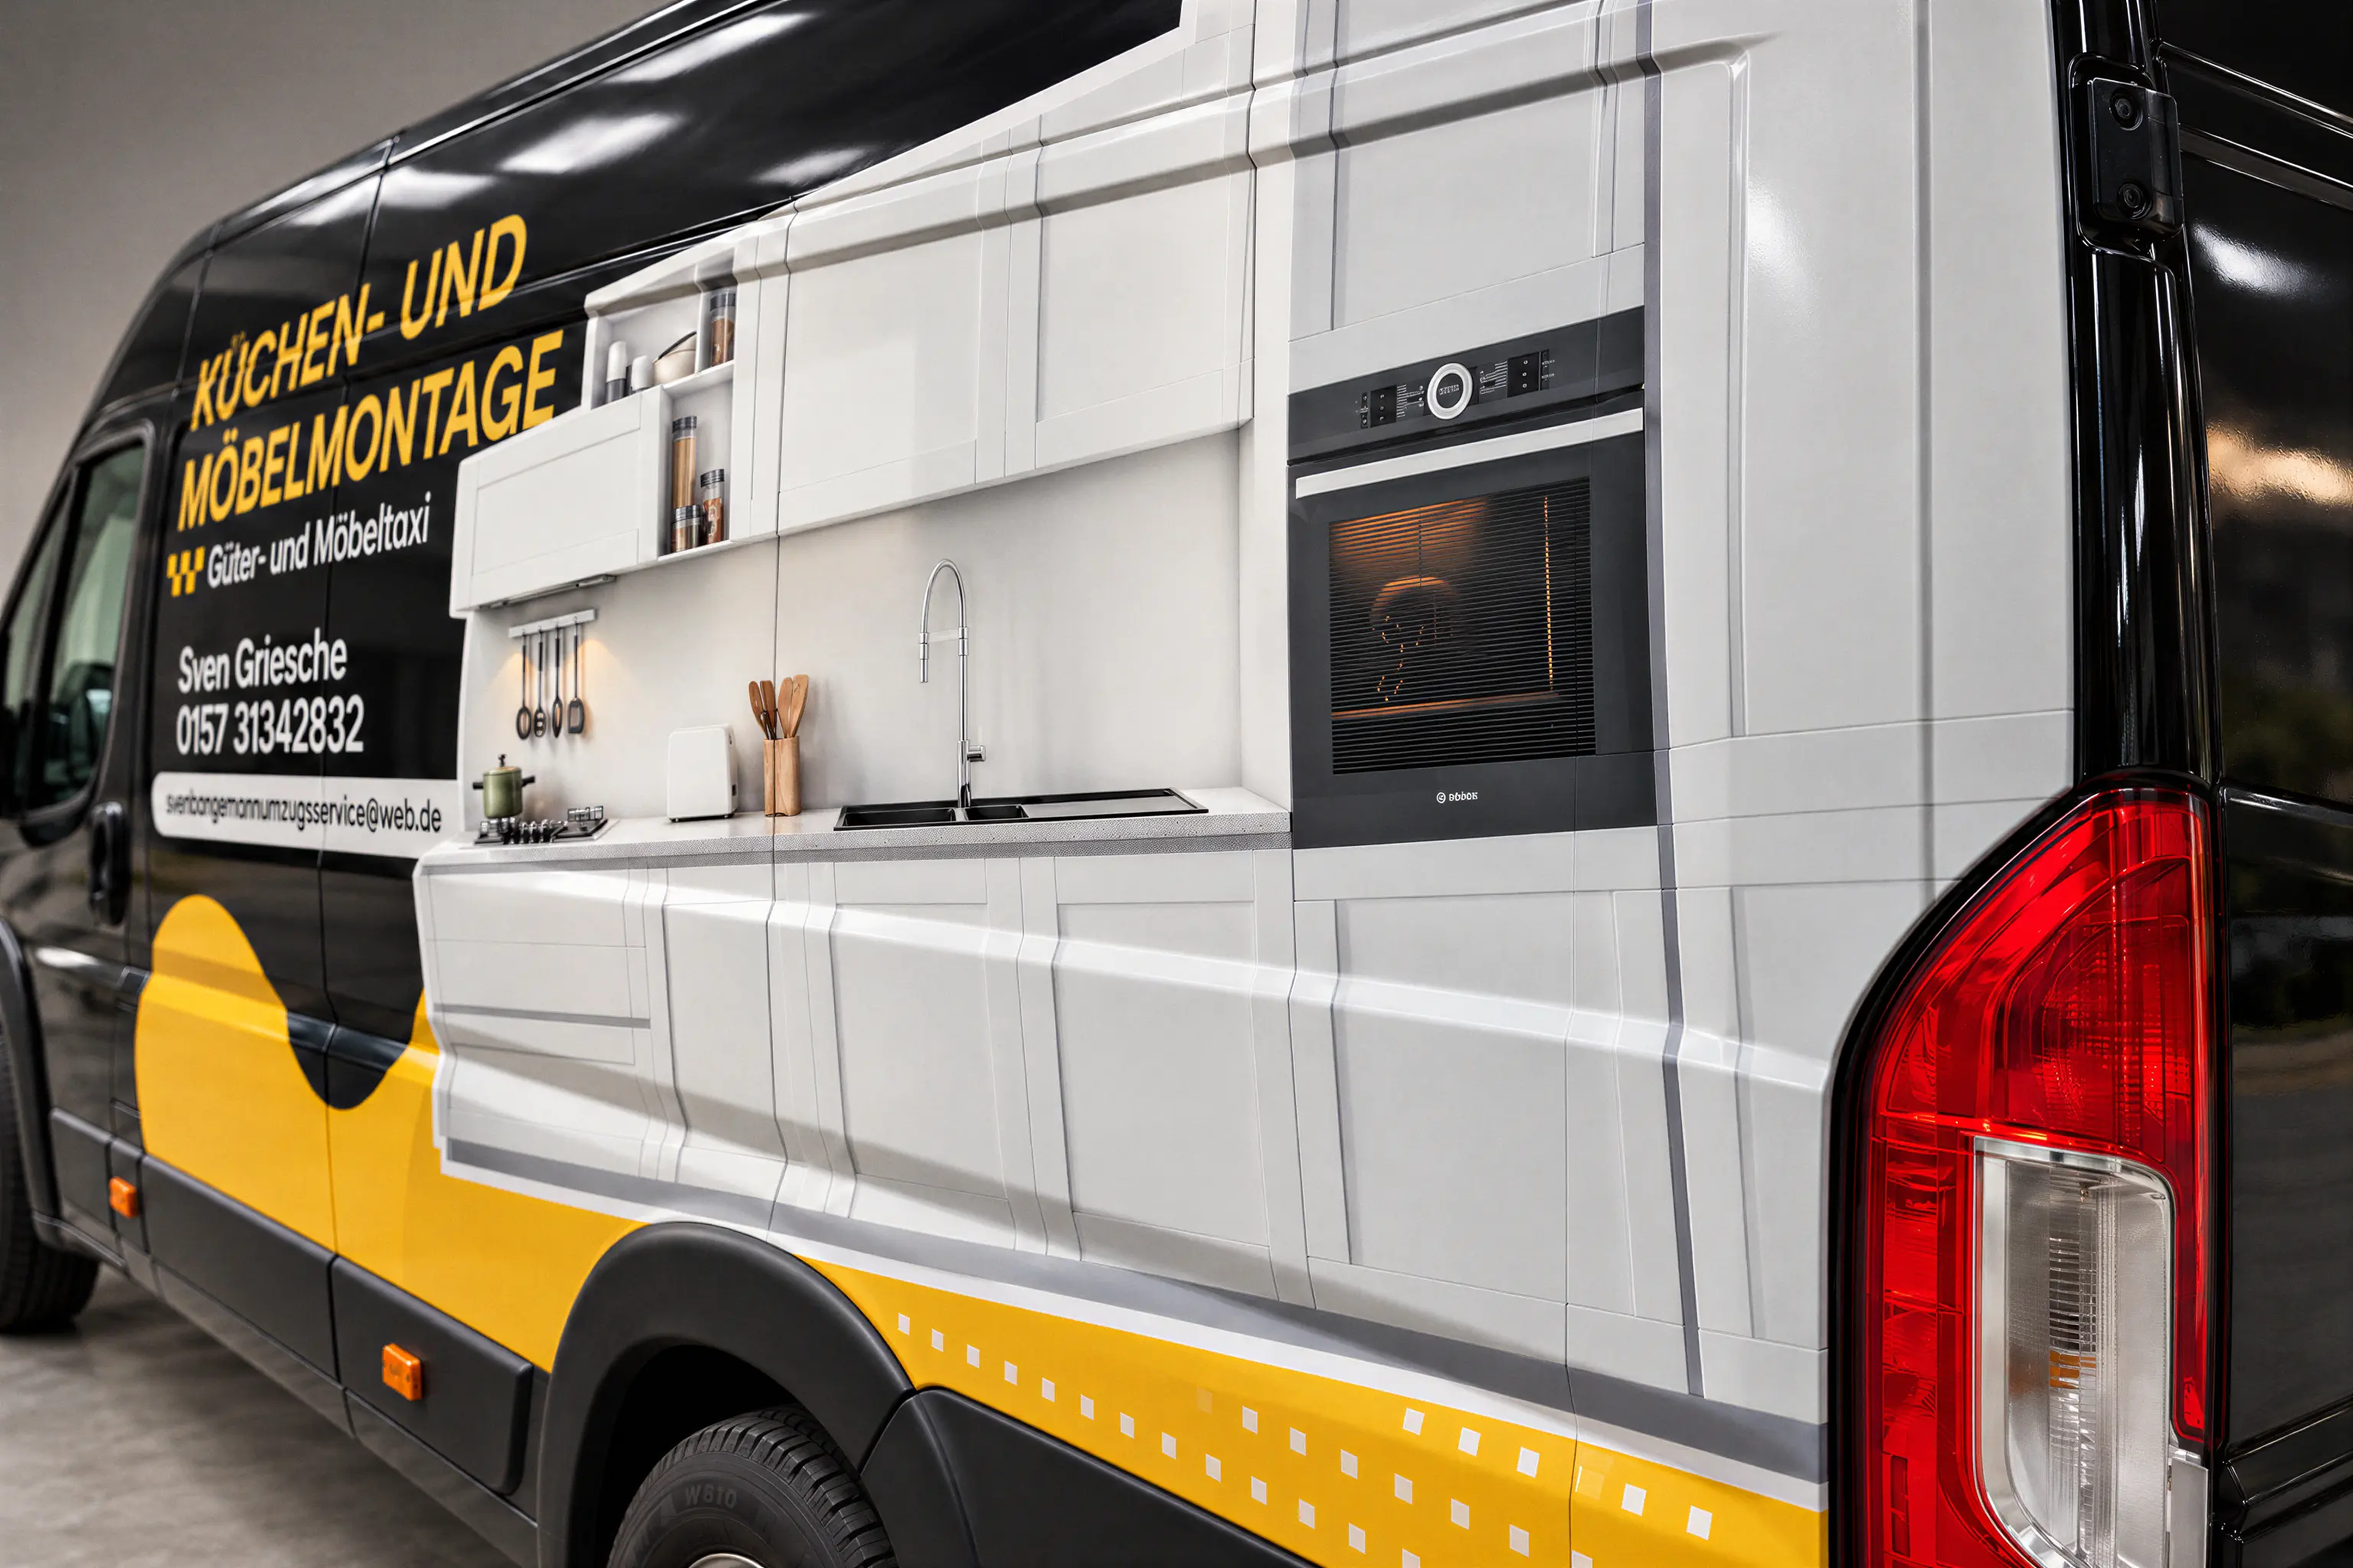
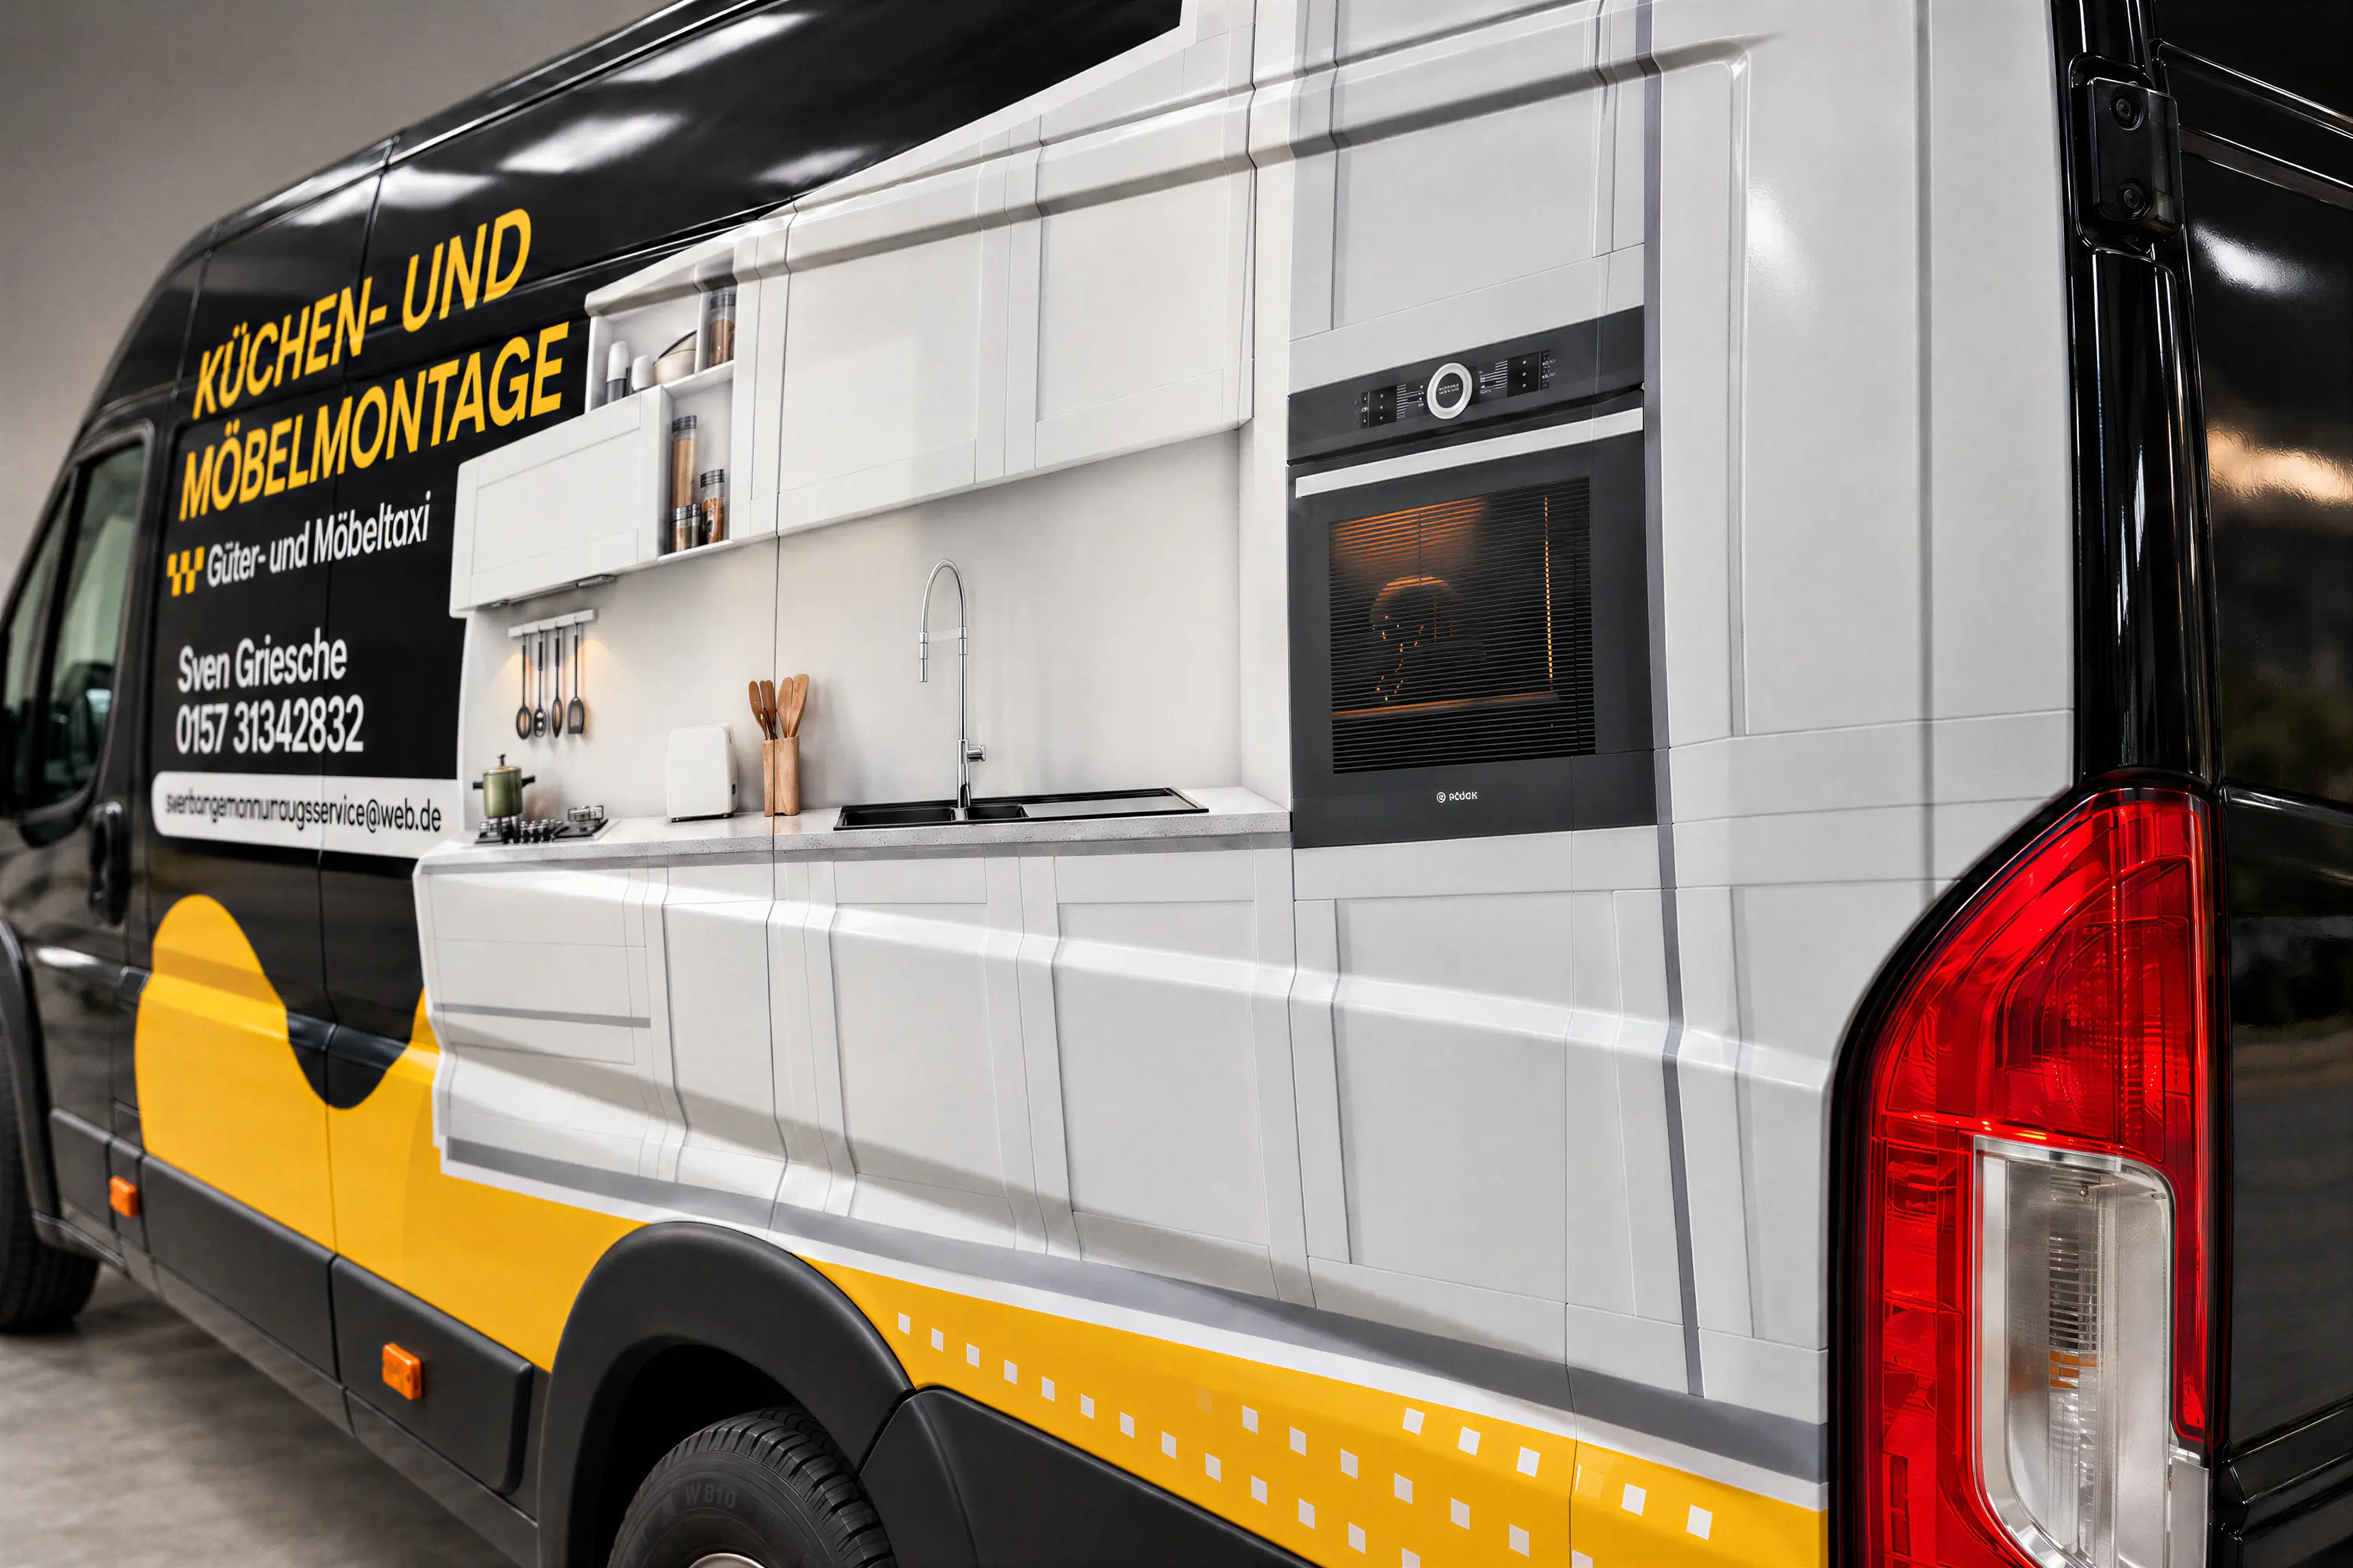
Update car wrapping photos 3 and 5

diff --git a/case-study.html b/case-study.html
@@ -170,7 +170,7 @@
   <!-- floating contact button -->
   <a class="contact-fab" href="mailto:savchenko.body@gmail.com" data-i18n="footer.fab">contact me</a>
 
-  <script src="./data.js?v=20261017-car-photo5-1f510d5391a3"></script>
+  <script src="./data.js?v=20261017-car-a693eaefab"></script>
   <script src="/data-uk.js?v=20261017-citroen-jumper"></script>
   <script src="./app.js?v=20261017-car-photo5-1f510d5391a3"></script>
 </body>

diff --git a/index.html b/index.html
@@ -189,7 +189,7 @@
   <!-- floating contact button -->
   <a class="contact-fab" href="mailto:savchenko.body@gmail.com" data-i18n="footer.fab">contact me</a>
 
-  <script src="./data.js?v=20261017-car-photo5-1f510d5391a3"></script>
+  <script src="./data.js?v=20261017-car-a693eaefab"></script>
   <script src="/data-uk.js?v=20261017-citroen-jumper"></script>
   <script src="./app.js?v=20261017-car-photo5-1f510d5391a3"></script>
 </body>

diff --git a/about/index.html b/about/index.html
@@ -137,7 +137,7 @@
   <!-- floating contact button -->
   <a class="contact-fab" href="mailto:savchenko.body@gmail.com" data-i18n="footer.fab">contact me</a>
 
-  <script src="/data.js?v=20261017-car-photo5-1f510d5391a3"></script>
+  <script src="/data.js?v=20261017-car-a693eaefab"></script>
   <script src="/data-uk.js?v=20261017-citroen-jumper"></script>
   <script src="/app.js?v=20261017-car-photo5-1f510d5391a3"></script>
 </body>

diff --git a/data.js b/data.js
@@ -566,7 +566,7 @@ const SITE = {
     },
     "folder": "./Car wrapping",
     "image": "./Car wrapping/1.webp",
-    "imageVersions": { "5": "1f510d5391a3" },
+    "imageVersions": {"3": "5c30adca399a", "5": "13818cfb6760"},
     "link": "./case-study.html?project=car-wrapping",
     "blocks": [{ "type": "image-row", "nums": [2, 3] }, { "type": "image-row", "nums": [5, 4] }],
     "caseStudy": {
